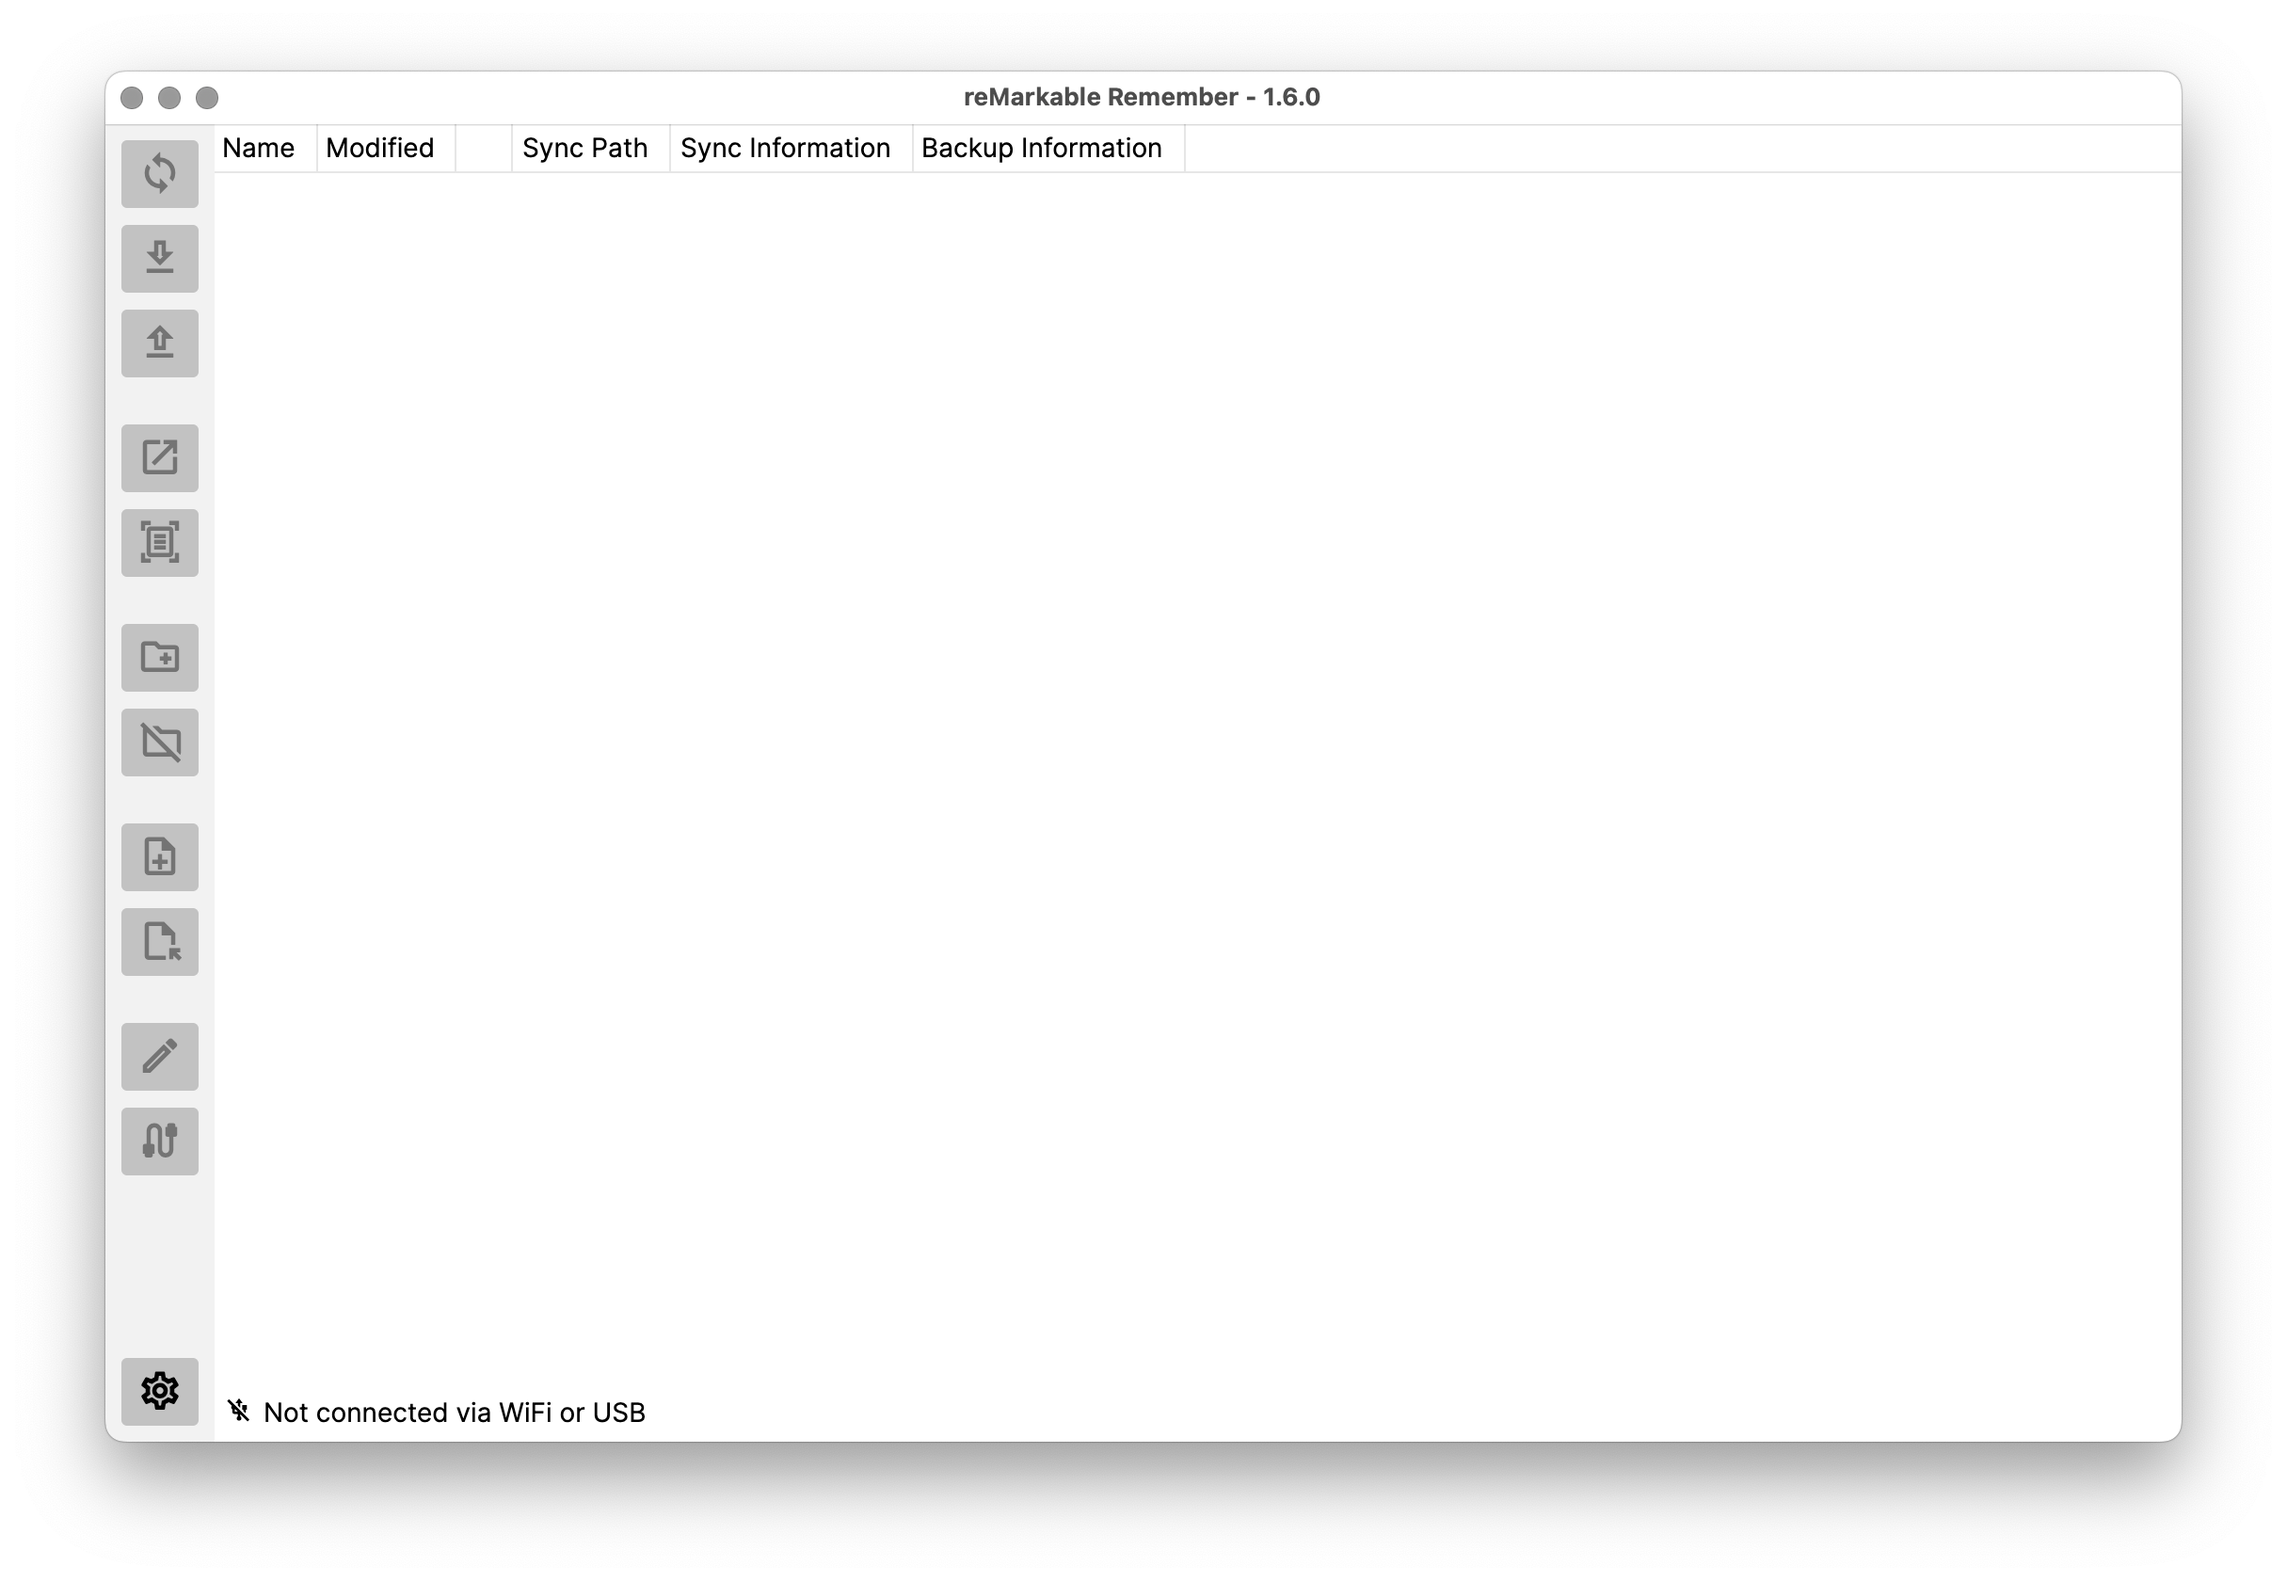
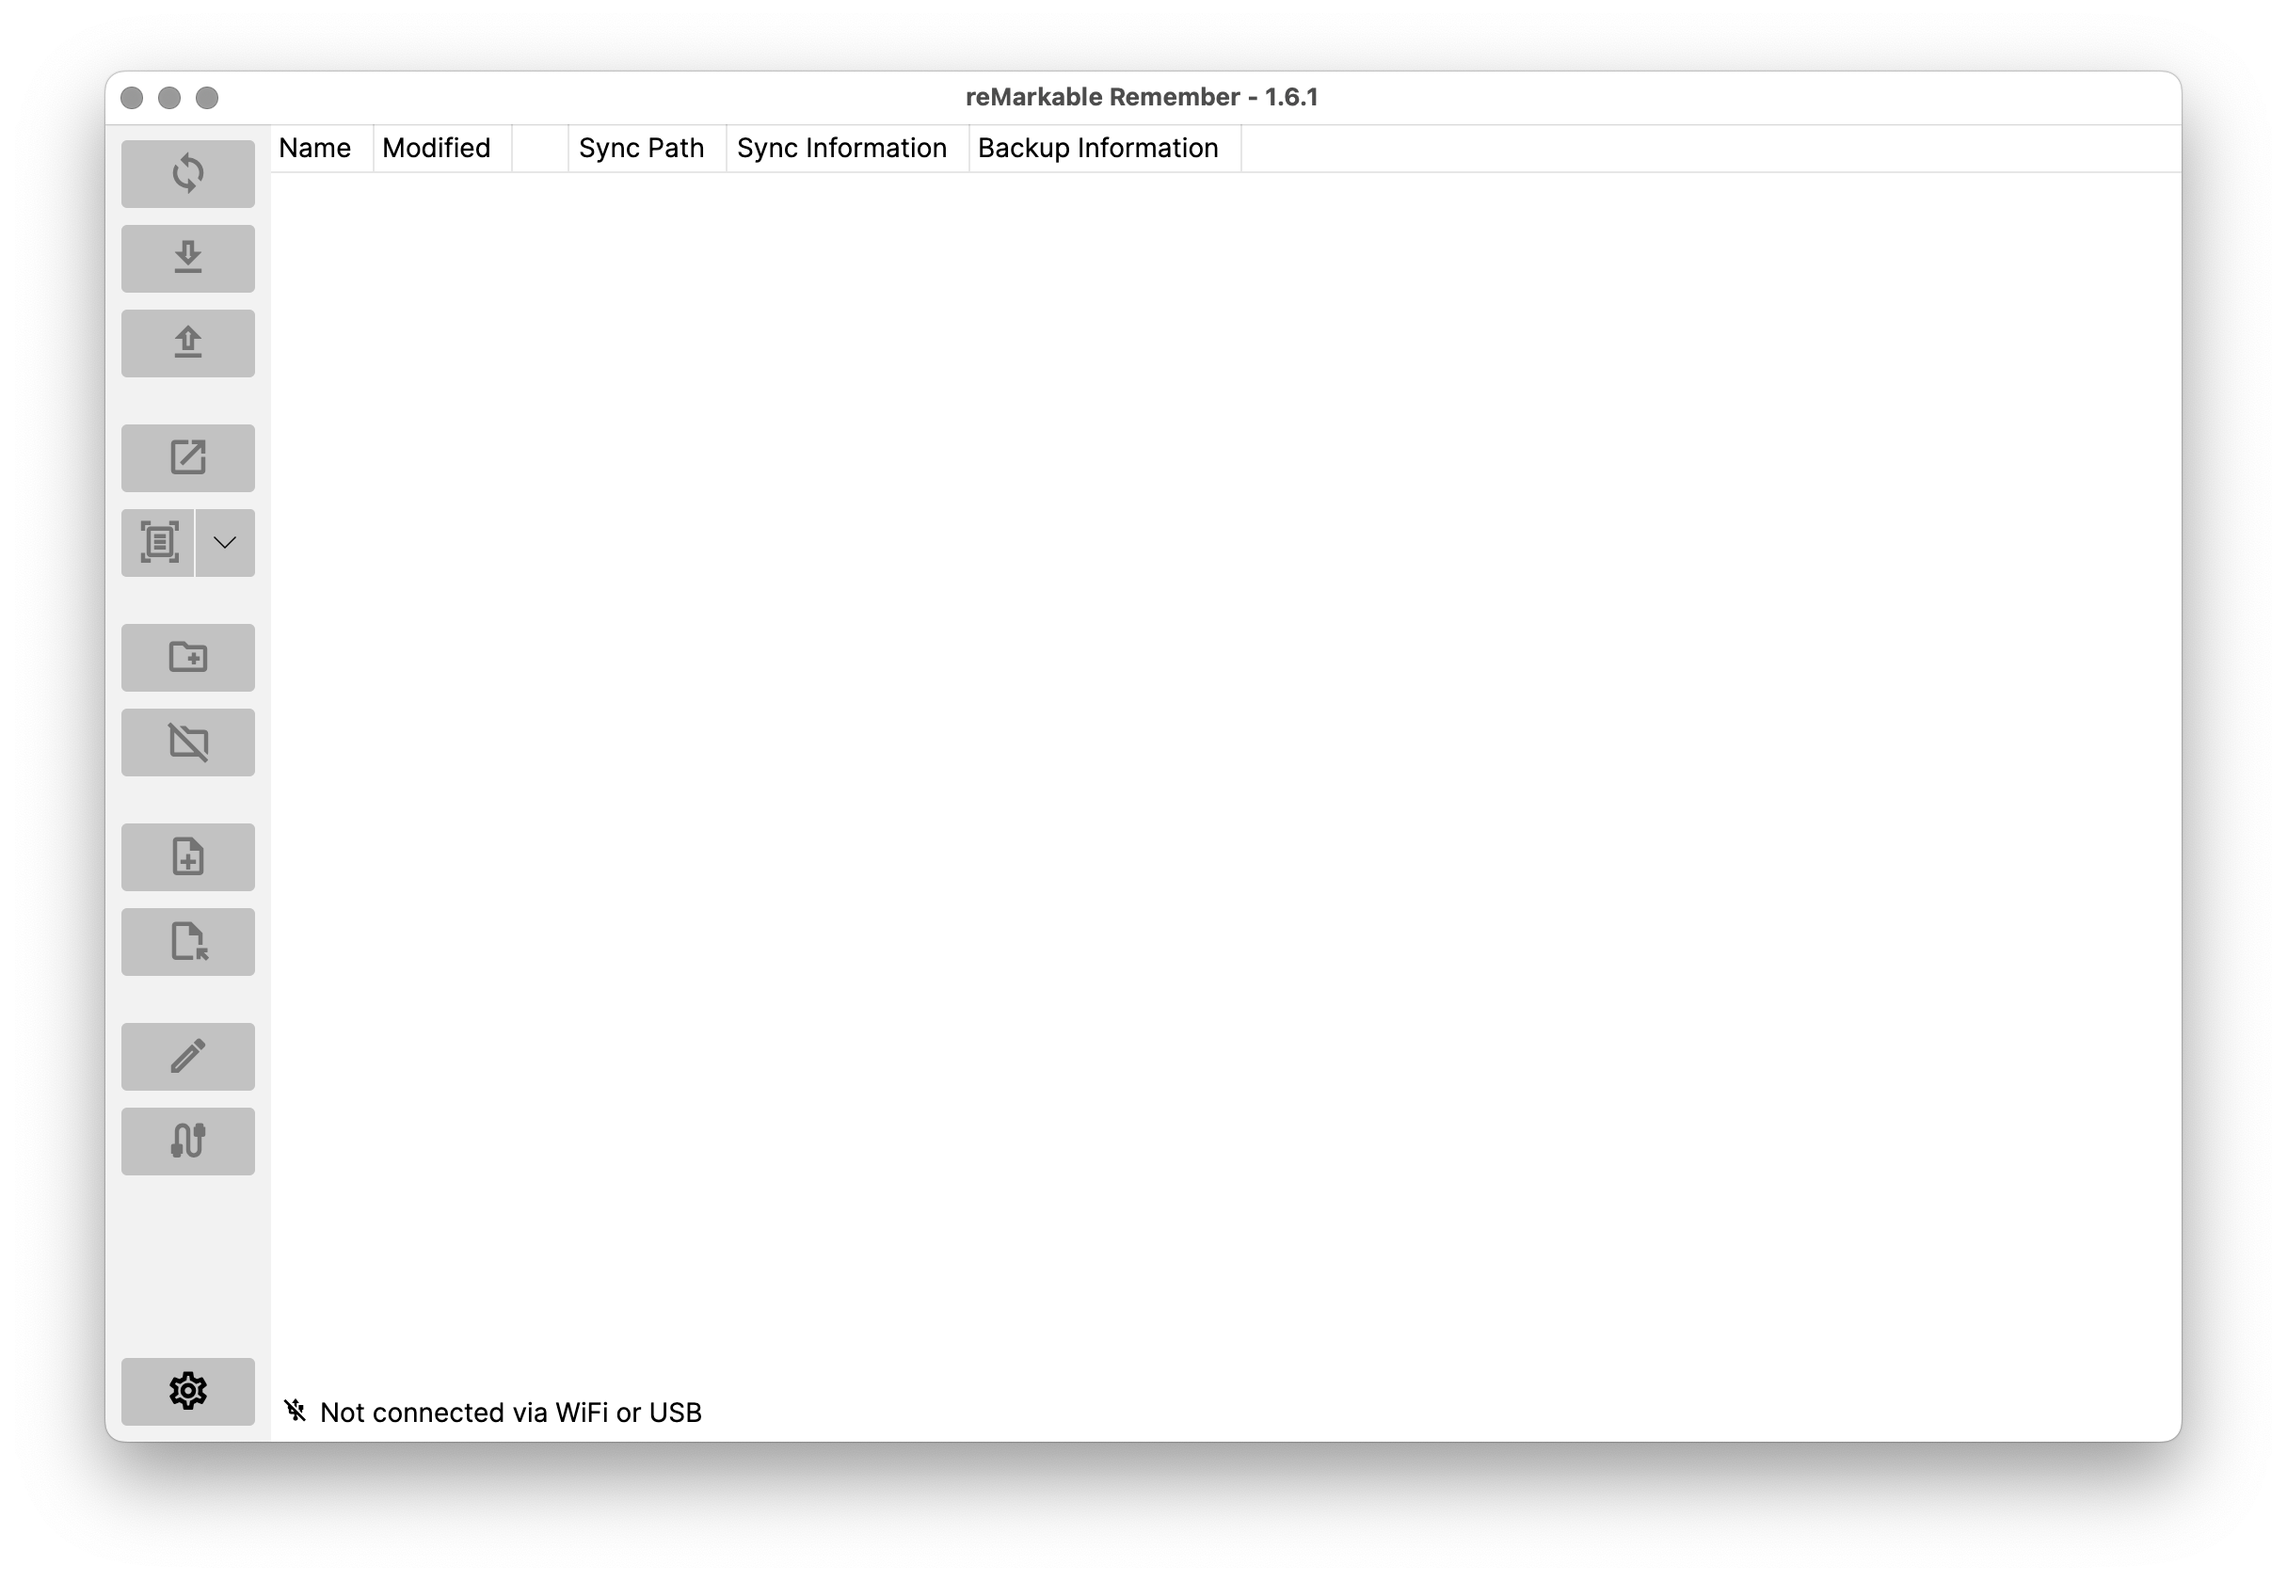
Adds option to change language for hand writing recognition via split button

diff --git a/src/ReMarkableRemember/ViewModels/MainWindowModel.cs b/src/ReMarkableRemember/ViewModels/MainWindowModel.cs
@@ -31,10 +31,12 @@ public sealed class MainWindowModel : ViewModelBase, IAppModel, IDisposable
     private Boolean hasBackupDirectory;
     private Boolean hasItems;
     private Job.Description jobs;
+    private MyScriptLanguageViewModel myScriptLanguage;
 
     public MainWindowModel(String dataSource)
     {
         this.ItemsTree = new ItemsTreeViewModel();
+        this.MyScriptLanguages = MyScriptLanguageViewModel.GetLanguages();
         this.OpenFilePicker = new Interaction<FilePickerOpenOptions, IEnumerable<String>?>();
         this.OpenFolderPicker = new Interaction<String, String?>();
         this.ShowDialog = new Interaction<DialogWindowModel, Boolean>();
@@ -44,6 +46,7 @@ public sealed class MainWindowModel : ViewModelBase, IAppModel, IDisposable
         this.hasBackupDirectory = Path.Exists(this.controller.Settings.Backup);
         this.hasItems = false;
         this.jobs = Job.Description.None;
+        this.myScriptLanguage = this.MyScriptLanguages.Single(language => String.CompareOrdinal(language.Code, this.controller.Settings.MyScriptLanguage) == 0);
 
         this.CommandAbout = ReactiveCommand.CreateFromTask(this.About);
         this.CommandBackup = ReactiveCommand.CreateFromTask(this.Backup, this.Backup_CanExecute());
@@ -60,6 +63,7 @@ public sealed class MainWindowModel : ViewModelBase, IAppModel, IDisposable
 
         this.WhenAnyValue(vm => vm.ConnectionStatus).Subscribe(status => this.RaisePropertyChanged(nameof(this.ConnectionStatusText)));
         this.WhenAnyValue(vm => vm.Jobs).Subscribe(jobs => this.RaisePropertyChanged(nameof(this.JobsText)));
+        this.WhenAnyValue(vm => vm.MyScriptLanguage).Subscribe(this.SaveMyScriptLanguage);
 
         RxApp.MainThreadScheduler.Schedule(this.Update);
     }
@@ -271,6 +275,12 @@ public sealed class MainWindowModel : ViewModelBase, IAppModel, IDisposable
         }
     }
 
+    private void SaveMyScriptLanguage(MyScriptLanguageViewModel language)
+    {
+        this.controller.Settings.MyScriptLanguage = language.Code;
+        this.controller.Settings.SaveChanges();
+    }
+
     private async Task Settings()
     {
         using Job job = new Job(Job.Description.Settings, this);
@@ -282,6 +292,7 @@ public sealed class MainWindowModel : ViewModelBase, IAppModel, IDisposable
         }
 
         this.HasBackupDirectory = Path.Exists(this.controller.Settings.Backup);
+        this.MyScriptLanguage = this.MyScriptLanguages.Single(language => String.CompareOrdinal(language.Code, this.controller.Settings.MyScriptLanguage) == 0);
     }
 
     private IObservable<Boolean> Settings_CanExecute()
@@ -535,6 +546,14 @@ public sealed class MainWindowModel : ViewModelBase, IAppModel, IDisposable
             return (jobs.Count > 0) ? String.Join(" and ", jobs) : null;
         }
     }
+
+    public MyScriptLanguageViewModel MyScriptLanguage
+    {
+        get { return this.myScriptLanguage; }
+        set { this.RaiseAndSetIfChanged(ref this.myScriptLanguage, value); }
+    }
+
+    public IEnumerable<MyScriptLanguageViewModel> MyScriptLanguages { get; }
 
     public Interaction<FilePickerOpenOptions, IEnumerable<String>?> OpenFilePicker { get; }
 

diff --git a/src/ReMarkableRemember/Models/MyScript.cs b/src/ReMarkableRemember/Models/MyScript.cs
@@ -95,9 +95,9 @@ internal sealed class MyScript
 
     public static IEnumerable<String> SupportedLanguages { get { return supportedLanguages; } }
 
-    public async Task<String> Recognize(Notebook.Page page)
+    public async Task<String> Recognize(Notebook.Page page, String? language = null)
     {
-        String language = this.settings.MyScriptLanguage;
+        language ??= this.settings.MyScriptLanguage;
         if (!supportedLanguages.Contains(language)) { throw new MyScriptException($"Language is not supported by MyScript: {language}"); }
 
         String requestBody = BuildRequestBody(page, language);

diff --git a/src/ReMarkableRemember/Models/Item.cs b/src/ReMarkableRemember/Models/Item.cs
@@ -81,7 +81,7 @@ public sealed class Item
     public async Task<String> HandWritingRecognition()
     {
         Notebook notebook = await this.controller.Tablet.GetNotebook(this.Id).ConfigureAwait(false);
-        IEnumerable<String> myScriptPages = await Task.WhenAll(notebook.Pages.Select(this.controller.MyScript.Recognize)).ConfigureAwait(false);
+        IEnumerable<String> myScriptPages = await Task.WhenAll(notebook.Pages.Select(page => this.controller.MyScript.Recognize(page))).ConfigureAwait(false);
         return String.Join(Environment.NewLine, myScriptPages);
     }
 
